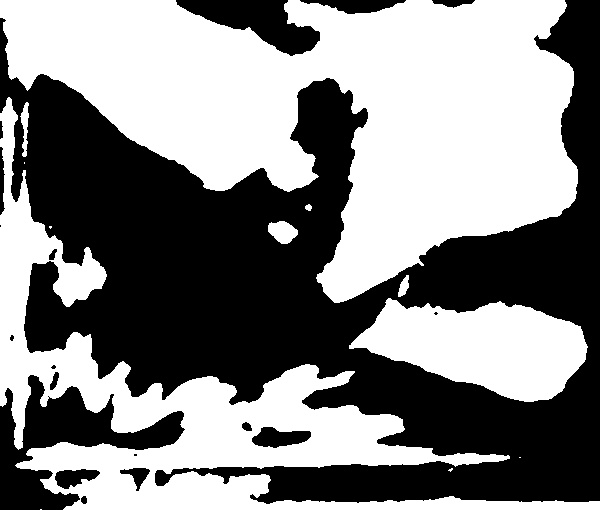
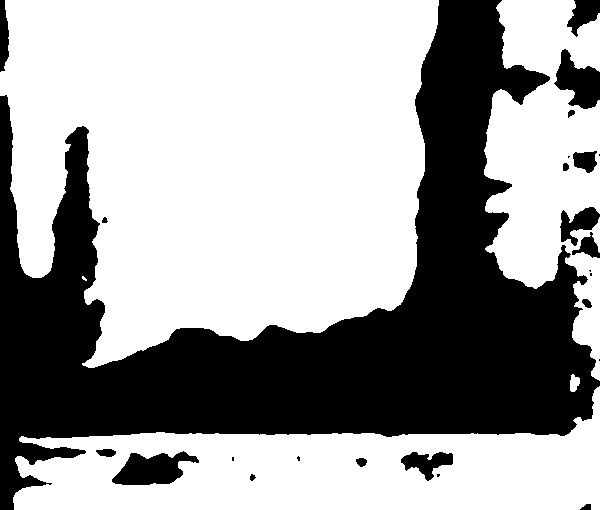
increase models

diff --git a/Cards.py b/Cards.py
@@ -22,10 +22,10 @@ CORNER_WIDTH = 600
 CORNER_HEIGHT = 570
 
 # Dimensions of rank train images
-RANK_WIDTH = 70
-RANK_HEIGHT = 125
+RANK_WIDTH = 800
+RANK_HEIGHT = 600
 
-RANK_DIFF_MAX = 5000
+RANK_DIFF_MAX = 200000
 
 CARD_MAX_AREA = 120000
 CARD_MIN_AREA = 25000
@@ -67,7 +67,7 @@ def load_ranks(filepath):
 #    for Rank in ['reito_lantern','ornate_kanzashi', 'ghostly_wings', 'plains', 'ninija_of_the_deep_hours', 'path_of_angers_flame', 'phantom_nomad', 'divine_light',
 #              'freed_from_the_real','sift_through_sands', 'ryusei_the_falling_star', 'setons_desire', 'dripping_tongue_zubera', 'sacura_tribe_scout', 'jugan_the_rising_star', 
 #              'locust_miser', 'divergent_growth_rob_alexander', 'plains_matthew_mitchell', 'plains_basic_land', 'forest_quinton_hoover', 'plains_ben_thompson', 'whispering_shade']:
-    for Rank in ['reito_lantern','ornate_kanzashi', 'ghostly_wings']:
+    for Rank in ['reito_lantern','ornate_kanzashi', 'free_from_the_real', 'free_from_the_real', 'sakura_tribe_scout', 'plains_ben_thomposon']:
         
         train_ranks.append(Train_ranks())
         train_ranks[i].name = Rank
@@ -171,18 +171,20 @@ def preprocess_card(contour, image):
 
     # Grab corner of warped card image and do a 4x zoom
     Qcorner = qCard.warp[10:CORNER_HEIGHT-10, 0:CORNER_WIDTH]
+    
 #    Qcorner_zoom = cv2.resize(Qcorner, (0,0), fx=4, fy=4)
 
     # Sample known white pixel intensity to determine good threshold level
     white_level = Qcorner[15,int((CORNER_WIDTH)/2)]
     thresh_level = white_level - CARD_THRESH
+
     if (thresh_level <= 0):
         thresh_level = 1
-    retval, query_thresh = cv2.threshold(Qcorner, 120, 255, cv2. THRESH_BINARY)
+    retval, query_thresh = cv2.threshold(Qcorner, thresh_level, 255, cv2. THRESH_BINARY)
     ''' TODO issue with dynamic lightning '''
     # Split in to top and bottom half (top shows rank, bottom shows suit)
-    Qrank = query_thresh #[20:185, 0:128]
-    cv2.imshow("Card Detectorsss",query_thresh)
+    Qrank = query_thresh 
+    cv2.imshow("Card Detector",query_thresh)
     # Find rank contour and bounding rectangle, isolate and find largest contour
     dummy, Qrank_cnts, hier = cv2.findContours(Qrank, cv2.RETR_TREE,cv2.CHAIN_APPROX_SIMPLE)
     Qrank_cnts = sorted(Qrank_cnts, key=cv2.contourArea,reverse=True)
@@ -202,10 +204,9 @@ def match_card(qCard, train_ranks):
     the query card rank images with the train rank images.
     The best match is the rank image that has the least difference."""
 
-    best_rank_match_diff = 10000
+    best_rank_match_diff = 3000000
     best_rank_match_name = "Unknown"
     best_rank_name = None
-    i = 0
 
     # If no contours were found in query card in preprocess_card function,
     # the img size is zero, so skip the differencing process
@@ -218,11 +219,14 @@ def match_card(qCard, train_ranks):
             if Trank.img is None:
                 continue
             diff_img = cv2.absdiff(qCard.rank_img, Trank.img)
+
             rank_diff = int(np.sum(diff_img)/255)
+            print(rank_diff)
             if rank_diff < best_rank_match_diff:
-                best_rank_diff_img = diff_img
+                print('best')
                 best_rank_match_diff = rank_diff
                 best_rank_name = Trank.name
+                print(Trank.name)
 
     # Combine best rank match and best suit match to get query card's identity.
     # If the best matches have too high of a difference value, card identity

diff --git a/Card_Isolator.py b/Card_Isolator.py
@@ -22,8 +22,8 @@ debug_path = os.path.dirname(os.path.abspath(__file__)) + '/Debug_Imgs/'
 IM_WIDTH = 800
 IM_HEIGHT = 600 
 
-RANK_WIDTH = 70
-RANK_HEIGHT = 125
+RANK_WIDTH = 800
+RANK_HEIGHT = 600
 
 SUIT_WIDTH = 70
 SUIT_HEIGHT = 100
@@ -51,11 +51,8 @@ if PiOrUSB == 2:
 # Use counter variable to switch from isolating Rank to isolating Suit
 i = 1
 
-#for Name in ['reito_lantern','ornate_kanzashi', 'ghostly_wings', 'plains', 'ninija_of_the_deep_hours', 'path_of_angers_flame', 'phantom_nomad', 'divine_light',
-#              'freed_from_the_real','sift_through_sands', 'ryusei_the_falling_star', 'setons_desire', 'dripping_tongue_zubera', 'sacura_tribe_scout', 'jugan_the_rising_star', 
-#              'locust_miser', 'divergent_growth_rob_alexander', 'plains_matthew_mitchell', 'plains_basic_land', 'forest_quinton_hoover', 'plains_ben_thompson', 'whispering_shade']:
-for Name in ['reito_lantern','ornate_kanzashi', 'ghostly_wings']:
-    
+for Name in ['reito_lantern','ornate_kanzashi', 'free_from_the_real', 'free_from_the_real', 'sakura_tribe_scout', 'plains_ben_thomposon']:
+
     filename = Name + '.jpg'
     
     while True:
@@ -133,16 +130,15 @@ for Name in ['reito_lantern','ornate_kanzashi', 'ghostly_wings']:
             retval, corner_thresh = cv2.threshold(corner_blur, 120, 255, cv2. THRESH_BINARY)
         
             if debug_pics: cv2.imwrite(debug_path + "4_thresh.jpg",corner_thresh)
-            rank = corner_thresh[0:165, 0:800] # Grabs portion of image that shows rank
+
+            dummy, cnts, hier = cv2.findContours(corner_thresh, cv2.RETR_TREE,cv2.CHAIN_APPROX_SIMPLE)
+            cnts = sorted(cnts, key=cv2.contourArea,reverse=True)
         
-            dummy, rank_cnts, hier = cv2.findContours(rank, cv2.RETR_TREE,cv2.CHAIN_APPROX_SIMPLE)
-            rank_cnts = sorted(rank_cnts, key=cv2.contourArea,reverse=True)
+            x,y,w,h = cv2.boundingRect(cnts[0])
         
-            x,y,w,h = cv2.boundingRect(rank_cnts[0])
-        
-            rank_roi = rank[y:y+h, x:x+w]
-            rank_sized = cv2.resize(rank_roi, (RANK_WIDTH, RANK_HEIGHT), 0, 0)
-            final_img = rank_sized
+            roi = corner_thresh[y:y+h, x:x+w]
+            sized = cv2.resize(roi, (RANK_WIDTH, RANK_HEIGHT), 0, 0)
+            final_img = sized
         
             cv2.imshow("Image",final_img)
         

diff --git a/CardDetector.py b/CardDetector.py
@@ -64,7 +64,7 @@ while cam_quit == 0:
 	
     # Find and sort the contours of all cards in the image (query cards)
     cnts_sort, cnt_is_card = Cards.find_cards(pre_proc)
-
+    
     # If there are no contours, do nothing
     if len(cnts_sort) != 0:
 
@@ -104,7 +104,7 @@ while cam_quit == 0:
     cv2.putText(image,"FPS: "+str(int(frame_rate_calc)),(10,26),font,0.7,(255,0,255),2,cv2.LINE_AA)
 
     # Finally, display the image with the identified cards!
-    cv2.imshow("Card Detector",image)
+    cv2.imshow("Card Detectors",image)
 
     # Calculate framerate
     t2 = cv2.getTickCount()
